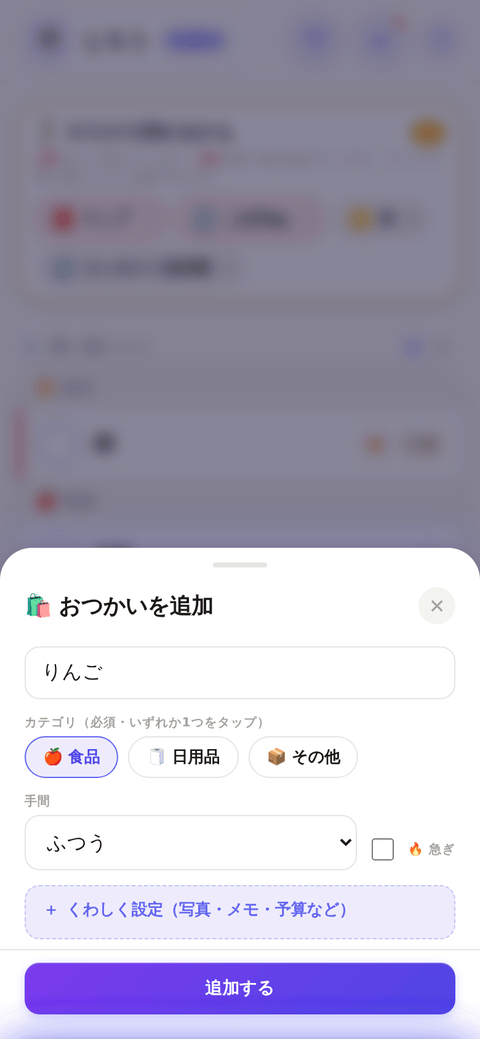
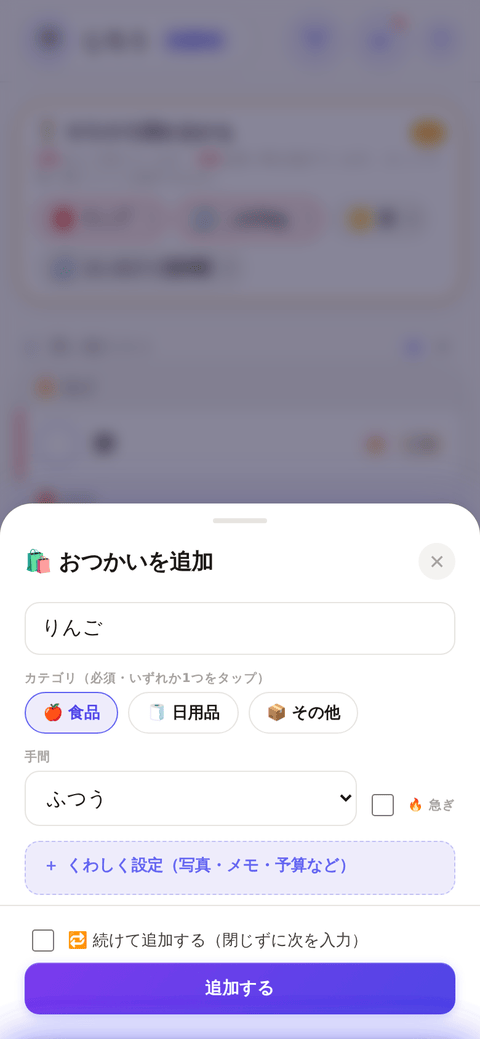
🔁 おつかい追加シートに「続けて追加する」トグルを追加
まとめ買いで何品も続けて登録したいという要望に対応。

- 「おつかいを追加」モードのときだけ、追加ボタンの上に「🔁 続けて追加する」
  チェックボックスを出す（編集・よく買うもの登録/編集では出さない）
- ONで追加すると、シートを閉じずに品名欄へ戻る。カテゴリ・行き先は同じ
  買い物で繰り返し使うことが多いので残し、写真・手間・急ぎ・予算・ブランド・
  メモ・担当者など品ごとの入力だけをクリアする
- OFFなら従来どおり追加後にシートが閉じる。チェック状態は開くたびにリセット
- 回帰テスト continue-add-test を追加。docs/features.md §3・workflow.md の
  テスト表を更新、docs/screenshots/ を撮り直し（表示が変わった2枚のみ差分）、
  sw.js の CACHE を v141 に

Claude-Session: https://claude.ai/code/session_013Sh1XBCpeNBzayjahQXFzf

diff --git a/app-requests.js b/app-requests.js
@@ -170,6 +170,8 @@ function resetSheetToAddMode() {
   existingReqPhotoUrl = "";
   $("new-cycle-wrap").style.display = "none";
   $("new-cycle-days").value = "";
+  $("new-continue-wrap").style.display = "none"; // 「おつかいを追加」モードのときだけ openSheet() が表示する
+  $("new-continue-add").checked = false;
   setMoreFieldsOpen(false);   // 任意項目は閉じた状態から（値のリセットが済んでから要約を更新する）
 }
 
@@ -226,6 +228,7 @@ function openSheet() {
   // closeSheet 側のリセットに頼らず、開くときにも明示的にクリーンな追加モードにする
   resetSheetToAddMode();
   populateAssigneeSelect();
+  $("new-continue-wrap").style.display = ""; // 編集・よく買うもの登録では出さない
   $("sheet-add").classList.add("open");
   $("sheet-backdrop").classList.add("open");
   $("btn-add-float").classList.add("open");
@@ -295,14 +298,33 @@ async function addRequest() {
     }
     if (!(await dbOp(familyRef().child("requests/" + id).set(req), "追加できませんでした"))) return;
     bumpStat("requestedCount");
-    $("new-name").value = "";
-    $("new-memo").value = "";
-    $("new-budget").value = "";
-    $("new-brand").value = "";
-    $("new-urgent").checked = false;
-    $("new-assignee").value = "";
-    closeSheet();
-    showToast("追加しました 🛒", { sound: false });
+    // 「🔁 続けて追加する」が ON なら、まとめ買い用にシートを開いたまま次の品名入力へ進む。
+    // カテゴリ・行き先は同じ買い物で繰り返し使うことが多いので残し、それ以外の
+    // 品ごとの入力（写真・手間・急ぎ・予算・ブランド・メモ・担当者）だけをクリアする
+    if ($("new-continue-add").checked) {
+      $("new-name").value = "";
+      $("new-diff").value = "normal";
+      $("new-urgent").checked = false;
+      $("new-memo").value = "";
+      $("new-budget").value = "";
+      $("new-brand").value = "";
+      $("new-assignee").value = "";
+      setReqPhotoPreview("");
+      pendingReqPhoto = null;
+      existingReqPhotoUrl = "";
+      updateMoreFieldsSummary();
+      showToast(`🛒 「${name}」を追加しました（続けて入力できます）`, { sound: false });
+      $("new-name").focus();
+    } else {
+      $("new-name").value = "";
+      $("new-memo").value = "";
+      $("new-budget").value = "";
+      $("new-brand").value = "";
+      $("new-urgent").checked = false;
+      $("new-assignee").value = "";
+      closeSheet();
+      showToast("追加しました 🛒", { sound: false });
+    }
   } finally {
     addingRequest = false;
   }

diff --git a/app.html b/app.html
@@ -690,6 +690,12 @@
       </div>
       <!-- 主操作はシート下部に固定（docs/rules/ui.md §5）。中身をスクロールしなくても押せる -->
       <div class="sheet-footer">
+        <!-- 「おつかいを追加」モードのときだけ出す（編集・よく買うもの登録では意味がないため）。
+             まとめ買いで何品も続けて登録したいときに、閉じずに次の品名入力へ進める -->
+        <label id="new-continue-wrap" class="row continue-add-row" style="display:none;">
+          <input type="checkbox" id="new-continue-add" style="width:18px;height:18px;" />
+          <span>🔁 続けて追加する（閉じずに次を入力）</span>
+        </label>
         <button id="btn-add-request" class="btn-block">追加する</button>
       </div>
     </div>

diff --git a/styles.css b/styles.css
@@ -1768,6 +1768,9 @@ button, a, [role="button"] { touch-action: manipulation; -webkit-user-select: no
 /* フッターに閉じるボタンを置くシートでは、ヘッダーの下余白を詰める */
 #history-sheet .sheet-header { margin-bottom: 10px; }
 
+/* 追加シートのフッター: 「続けて追加」トグル。ボタンの上に小さく置く */
+.continue-add-row { justify-content: flex-start; gap: 8px; padding: 6px 2px; font-size: 13px; color: var(--ink-2); cursor: pointer; }
+
 /* ======= 追加シートの任意項目の折りたたみ ======= */
 /* 押すと任意項目（写真・行き先・予算・ブランド・メモ・担当・買う間隔）が開く。
    閉じているときは、値が入っている項目名を小さく並べて「設定あり」が分かるようにする */

diff --git a/sw.js b/sw.js
@@ -3,7 +3,7 @@
 // ・Firebase SDK（gstatic.com）や設定・アイコンなどの静的アセットはプリキャッシュし、
 //   キャッシュ優先で返す（圏外でもアプリが起動できるように）。
 // アプリ本体 = app.html、紹介ページ = index.html（ルート）、プロジェクトハブ = hub.html。
-const CACHE = "otsukai-v140";
+const CACHE = "otsukai-v141";
 
 const PRECACHE = [
   "./app.html",

diff --git a/docs/features.md b/docs/features.md
@@ -145,6 +145,10 @@ Chrome・Edge はワンタップの「ホーム画面に追加」ボタン、iOS
 閉じているときは「設定あり: 写真・メモ」のように何を入れたかが1行で見えます）。編集で任意項目に値が入っている
 ときは最初から開いた状態になります。「追加する」はシートの下部に固定されていて、開いていても常に押せます。
 
+まとめ買いで何品も続けて追加したいときは、追加ボタンの上にある **「🔁 続けて追加する」** にチェックを入れます。
+チェックした状態で追加すると、シートを閉じずに品名の入力欄へ戻ります。**カテゴリと行き先は残り**、写真・手間・
+急ぎ・予算・ブランド・メモ・担当者は次の品のためにクリアされます。チェックを外せば、いつも通り追加後にシートが閉じます。
+
 **カテゴリは🍎食品・🧻日用品・📦その他の3つから必ず1つタップします。** 選ばずに保存しようとすると
 「カテゴリを選んでください」と出て進めません。当てはまるものが無ければ「📦その他」を選びます
 （「未分類」という選択肢は無く、何もタップしないまま知らないうちに未分類になる、を防ぐための仕様です）。

diff --git a/docs/rules/workflow.md b/docs/rules/workflow.md
@@ -59,6 +59,7 @@ node tests/regression/bughunt.mjs # 1本だけ
 | `badge-seen-test` | お買い物タブの赤バッジ（既読で消える・新着依頼だけ数える・見た依頼は再表示されない） |
 | `empty-state-test` | お買い物リストが空のときの案内（キャラクター＋吹き出し・はじめかたの3ステップ） |
 | `add-sheet-fold-test` | おつかい追加シートの任意項目の折りたたみ（開いた直後は品名・カテゴリ・追加ボタンだけ・小画面で追加ボタンが画面内・「設定あり」の要約・編集時の自動展開） |
+| `continue-add-test` | 🔁 続けて追加する（追加モードだけに出る・ONで閉じずに次の入力へ・カテゴリ/行き先は残る・OFFなら従来どおり閉じる） |
 | `features-test` | 主要導線の通し |
 
 **共通処理は `tests/harness.mjs` に集約**している。各テストは3行で始まる:
